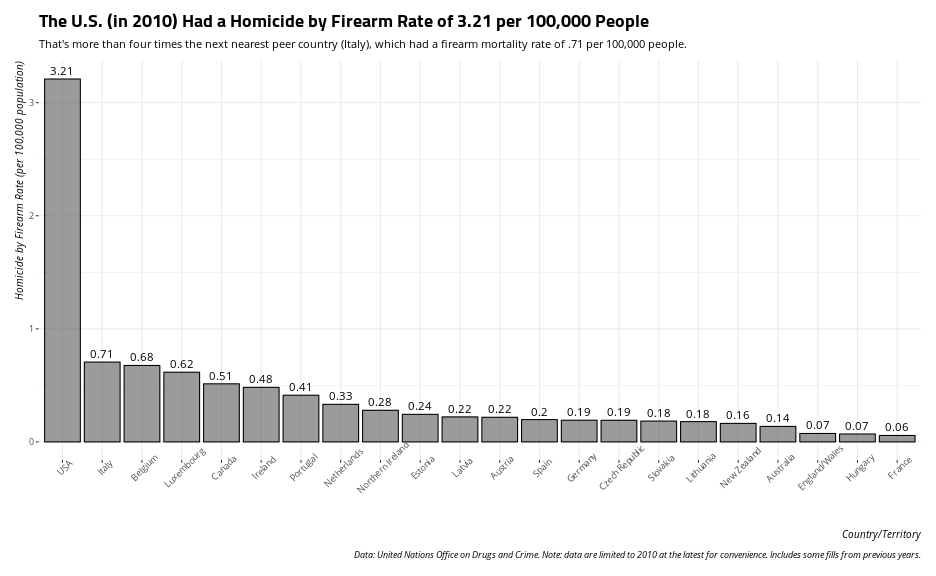
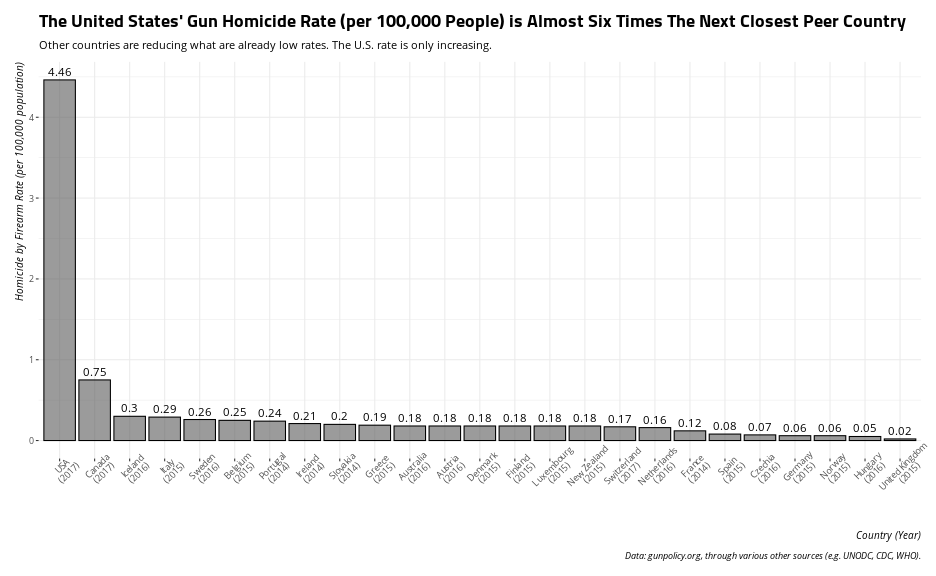
update gun violence/mass shooting post

Changed region(s): [[0.0, 0.0938, 0.9915, 0.8438], [0.031, 0.0, 0.9915, 0.0938], [0.3718, 0.9062, 0.9915, 0.9688]]

diff --git a/_source/2019-08-03-how-bad-is-americas-gun-violence-mass-shooting-problem-in-a-few-lines-of-r-code.md b/_source/2019-08-03-how-bad-is-americas-gun-violence-mass-shooting-problem-in-a-few-lines-of-r-code.md
@@ -19,12 +19,12 @@ categories:
 image: "gilroy-strong.jpg"
 ---
 
-{% include image.html url=“/images/gilroy-strong.jpg” caption=“Artist
-Ignacio ‘Nacho’ Moya carries a sign he made during a vigil for the
+{% include image.html url="/images/gilroy-strong.jpg" caption="Artist
+Ignacio 'Nacho' Moya carries a sign he made during a vigil for the
 victims of the Gilroy Garlic Festival Shooting (Nhat V. Meyer/Bay Area
-News Group)” width=400 align=“right” %}
+News Group)" width=400 align="right" %}
 
-*Last updated: August 03, 2019*
+*Last updated: August 04, 2019*
 
 [Another day, another mass
 shooting](https://www.cnn.com/2019/08/03/us/el-paso-shooting/index.html)
@@ -32,7 +32,7 @@ for literally the only country of its size and development where this
 happens on a routine basis. This one in El Paso may (reportedly) have
 some domestic terrorist overtones to it, but barring confirmation of the
 shooter and the shooter’s motives for the moment, this post will focus
-on just the mass shooting angle here.
+on just the gun violence and the mass shooting angle here.
 
 Gun control emerged as a political and academic hobby horse of mine
 largely because the problem strikes me as a massive and obvious public
@@ -71,56 +71,84 @@ no real (collective) will to do them. 🤷
 
 Anywho, a few lines of R code will emphasize the scope of the problem.
 
-First, United Nations Office on Drugs and Crime data (see:
-[here](https://www.unodc.org/documents/data-and-analysis/statistics/Homicide/Homicides_by_firearms.xls))
-will emphasize how the U.S. stands out among peer countries. I link to
-the spreadsheet in this post. It’s an *ugly* spreadsheet that requires
-some tidying and eye-balling things in LibreOffice for slicing, but it
-can be done all the same. Do note: the data are mostly limited to
-2009/2010 observations, not that it should meaningfully change the
-takeaway here. The U.S. will conspicuously be an island among peer
-countries (i.e. Canada, Australia, New Zealand, and Western/Northern
-Europe) for its homicide by firearm rate.
+First, [GunPolicy.org](https://www.gunpolicy.org) is an excellent
+repository of information about gun deaths, gun laws, and gun
+trafficking for a slew of countries over time. It also has fairly
+comprehensive coverage of estimated gun homicides per 100,000 people
+that leans on country reports from various agencies (e.g. Center for
+Disease Control, United Nations Office on Drugs and Crime, World Health
+Organization) and incorporates information from academic research on gun
+homicides as well when necessary. Since we’re dealing with advanced
+countries, there is high confidence in the estimates even if not all
+years are covered (e.g. the latest year for Germany in the data is
+2015).
+
+<!-- United Nations Office on Drugs and Crime data (see: [here](https://www.unodc.org/documents/data-and-analysis/statistics/Homicide/Homicides_by_firearms.xls)) will emphasize how the U.S. stands out among peer countries. I link to the spreadsheet in this post. It's an *ugly* spreadsheet that requires some tidying and eye-balling things in LibreOffice for slicing, but it can be done all the same. Do note: the data are mostly limited to 2009/2010 observations, not that it should meaningfully change the takeaway here. The U.S. will conspicuously be an island among peer countries (i.e. Canada, Australia, New Zealand, and Western/Northern Europe) for its homicide by firearm rate. -->
+
+I gathered data for 25 peer countries to the U.S. (i.e. Western Europe,
+Northern Europe, Canada, Australia, and New Zealand) in addition to data
+for the U.S. on gun homicides per 100,000 people in the population. I
+created a data frame for it (`ghp100k`) and added it to [my `stevemisc`
+package.](https://github.com/svmiller/stevemisc). You can [read more
+about the data
+here](https://github.com/svmiller/stevemisc/blob/master/man/ghp100k.Rd)
+and, better yet, [check the underlying sources
+here](https://www.gunpolicy.org).
+
+We can first assess the scope of the problem by selecting on the latest
+years for all 25 countres in the data. Here, it’s apparent the U.S. will
+conspicuously be an island among peer countries for its gun homicide
+rate. The U.S. had a gun homicide rate (per 100,000 people) in 2017 of
+an astounding 4.46. The next closest country is Canada, with a rate .75.
+The U.S. rate is almost six times the next closest country in gun
+homicides.
 
 ``` r
-readxl::read_xls("~/Dropbox/data/unodc/Homicides_by_firearms.xls",
-                 skip = 5) %>%
-  select(1:3, Variable, `1995`:`2010`) %>% slice(1:348) %>%
-  rename(Country = `Country/Territory`) %>%
-  fill(Region, Subregion, Country) %>%
-  group_by(Region, Subregion, Country, Variable) %>%
-  gather(year, value, `1995`:`2010`) %>%
-  mutate(ccode = countrycode::countrycode(Country,"country.name","cown")) -> UNODC
+# require(tidyverse)
+# require(stevemisc)
+# data(ghp100k)
 
-UNODC %>% ungroup() %>%
-  filter(ccode %in% c(2, 20, 200, 205, 210, 211, 212, 220, 230,
-                      235, 255, 260, 305, 310, 316, 317, 325,
-                      366, 367, 368, 900, 920)) %>%
-  filter(Variable == "Homicide by firearm rate per 100,000 population") %>%
-  arrange(Country, year) %>% 
-  group_by(Country) %>%
-  # These are advanced countries so most fills are coming from 2009 or so.
-  fill(value) %>% 
-  filter(year >= 2010) %>%
-  # Meh, didn't want to have to do this.
-  ungroup() %>%
-  mutate(Country = ifelse(Country == "United States of America", "USA", Country),
-         Country = ifelse(Country == "United Kingdom (Northern Ireland)", "Northern Ireland", Country),
-         Country = ifelse(Country == "United Kingdom (England and Wales)", "England/Wales", Country),) %>%
-  ggplot(.,aes(reorder(Country, -value), value)) +
+ghp100k %>%
+  arrange(country, year) %>%
+  group_by(country) %>%
+  slice(n()) %>%
+  mutate(cy = paste0(country,"\n(", year, ")")) %>%
+  ggplot(.,aes(reorder(cy, -ghp100k), ghp100k)) +
   theme_steve_web() +
   geom_bar(stat="identity", alpha=0.6, color="black") +
-  geom_text(aes(label=round(value, 2)), vjust=-.5, colour="black",
+  geom_text(aes(label=round(ghp100k, 2)), vjust=-.5, colour="black",
             position=position_dodge(.9), size=4, family="Open Sans") +
   theme(axis.text.x = element_text(angle = 45)) +
-  labs(x = "Country/Territory",
+  labs(x = "Country (Year)",
        y = "Homicide by Firearm Rate (per 100,000 population)",
-       subtitle = "That's more than four times the next nearest peer country (Italy), which had a firearm mortality rate of .71 per 100,000 people.",
-       caption = "Data: United Nations Office on Drugs and Crime. Note: data are limited to 2010 at the latest for convenience. Includes some fills from previous years.",
-       title = "The U.S. (in 2010) Had a Homicide by Firearm Rate of 3.21 per 100,000 People")
+       caption = "Data: gunpolicy.org, through various other sources (e.g. UNODC, CDC, WHO).",
+       title = "The United States' Gun Homicide Rate (per 100,000 People) is Almost Six Times The Next Closest Peer Country",
+       subtitle = "Other countries are reducing what are already low rates. The U.S. rate is only increasing.")
 ```
 
 ![](/images/firearm-homicide-rate-data-usa-peer-countries-1.png)<!-- -->
+
+The data I collected have a time-series component as well to assess
+changes over time. A few things are worth highlighting here. First, the
+U.S. gun homicide rate had been much worse a few decades ago. This we
+knew. Crime rates everywhere in the United States were higher a few
+decades ago than they are now. Still, the gun homicide rate is
+*increasing* in the United States since 2009. By comparison, they’re
+improving in every other country, prominently Italy.
+
+\`\`\`{r firearm-homicide-rate-data-usa-peer-countries-yearly, echo=T,
+eval=T, cache=T ,warning=F, message=F, fig.width=13, fig.height=88
+
+ghp100k %\>% arrange(country, year) %\>% ggplot(.,aes(year, ghp100k)) +
+geom\_line(size=1.1) + theme\_steve\_web() + facet\_wrap(~country) +
+labs(title = “The Gun Homicide Rate for Select Countries, by Year”, x =
+“Year”, y = “Homicide by Firearm Rate (per 100,000 population)”,
+subtitle = “Some countries (Italy, prominently) have done well to
+address gun violence over time. It’s only increased in the U.S. since
+2009.”, caption = “Data: gunpolicy.org, through various other sources
+(e.g. UNODC, CDC, WHO).”)
+
+\`\`\`
 
 Finally, you can start thinking about automating a script to scan [the
 Mother Jones database on mass
@@ -131,29 +159,30 @@ worse the problem is getting.
 
 Because it’s only getting worse.
 
-``` r
+\`\`\`{r us-mass-shootings-by-year-1982-present-mother-jones, echo=T,
+eval=T, cache=T, warning=F, fig.width=13, fig.height=8
+
 library(gsheet)
 
-mass_shootings = gsheet2tbl('https://docs.google.com/spreadsheets/d/1b9o6uDO18sLxBqPwl_Gh9bnhW-ev_dABH83M5Vb5L8o/htmlview?sle=true#gid=0')
+mass\_shootings =
+gsheet2tbl(‘<https://docs.google.com/spreadsheets/d/1b9o6uDO18sLxBqPwl_Gh9bnhW-ev_dABH83M5Vb5L8o/htmlview?sle=true#gid=0>’)
 
-mass_shootings %>%
-  separate(date, c("month","day","year"), sep="/") %>%
-  mutate(date = lubridate::as_date(paste0(year,"-",month,"-", day))) %>%
-  select(case, date, everything()) %>%
-  mutate(year = lubridate::year(date)) %>%
-  group_by(year) %>%
-  summarize(n = n()) %>% 
-  ggplot(.,aes(year, n)) +
-  theme_steve_web() +
-  geom_bar(stat="identity", alpha=0.4, fill="#619cff",color="black") +
-  scale_x_continuous(breaks = seq(1980, 2020, by = 4)) +
-  geom_text(aes(label=n), vjust=-.5, colour="black",
-            position=position_dodge(.9), size=4, family="Open Sans") +
-  labs(y = "Number of Mass Shootings in a Calendar Year",
-       x = "Year",
-       title = paste0("The Number of Mass Shootings by Year, 1982-Present (", format(Sys.time(), '%B %d, %Y'), ")"),
-       subtitle = "There were 31 mass shootings from 1982-1999. There've been 28---29, including El Paso---in the past 2.5 years.",
-       caption = "Data: Mother Jones. Methodology: pretty sure these are shooting incidents in which at least three people died. Earlier classifications of mass shootings counted four or more casualties, if I recall correctly.")
-```
+mass\_shootings %\>% separate(date, c(“month”,“day”,“year”), sep=“/”)
+%\>% mutate(date = lubridate::as\_date(paste0(year,“-”,month,“-”, day)))
+%\>% select(case, date, everything()) %\>% mutate(year =
+lubridate::year(date)) %\>% group\_by(year) %\>% summarize(n = n()) %\>%
+ggplot(.,aes(year, n)) + theme\_steve\_web() +
+geom\_bar(stat=“identity”, alpha=0.4, fill=“\#619cff”,color=“black”)
++ scale\_x\_continuous(breaks = seq(1980, 2020, by = 4)) +
+geom\_text(aes(label=n), vjust=-.5, colour=“black”,
+position=position\_dodge(.9), size=4, family=“Open Sans”) + labs(y =
+“Number of Mass Shootings in a Calendar Year”, x = “Year”, title =
+paste0(“The Number of Mass Shootings by Year, 1982-Present (”,
+format(Sys.time(), ‘%B %d, %Y’), “)”), subtitle = “There were 31 mass
+shootings from 1982-1999. There’ve been 28—29, including El Paso—in the
+past 2.5 years.”, caption = “Data: Mother Jones. Methodology: pretty
+sure these are shooting incidents in which at least three people died.
+Earlier classifications of mass shootings counted four or more
+casualties, if I recall correctly.”)
 
-![](/images/us-mass-shootings-by-year-1982-present-mother-jones-1.png)<!-- -->
+\`\`\`

diff --git a/_posts/2019-08-03-how-bad-is-americas-gun-violence-mass-shooting-problem-in-a-few-lines-of-r-code.md b/_posts/2019-08-03-how-bad-is-americas-gun-violence-mass-shooting-problem-in-a-few-lines-of-r-code.md
@@ -25,7 +25,7 @@ image: "gilroy-strong.jpg"
 
 {% include image.html url="/images/gilroy-strong.jpg" caption="Artist Ignacio 'Nacho' Moya carries a sign he made during a vigil for the victims of the Gilroy Garlic Festival Shooting (Nhat V. Meyer/Bay Area News Group)" width=400 align="right" %}
 
-*Last updated: August 03, 2019*
+*Last updated: August 04, 2019*
 
 [Another day, another mass shooting](https://www.cnn.com/2019/08/03/us/el-paso-shooting/index.html) for literally the only country of its size and development where this happens on a routine basis. This one in El Paso may (reportedly) have some domestic terrorist overtones to it, but barring confirmation of the shooter and the shooter's motives for the moment, this post will focus on just the gun violence and the mass shooting angle here.
 
@@ -37,49 +37,61 @@ Alas, here we are: massive public health problem---*needless* public health prob
 
 Anywho, a few lines of R code will emphasize the scope of the problem.
 
-First, United Nations Office on Drugs and Crime data (see: [here](https://www.unodc.org/documents/data-and-analysis/statistics/Homicide/Homicides_by_firearms.xls)) will emphasize how the U.S. stands out among peer countries. I link to the spreadsheet in this post. It's an *ugly* spreadsheet that requires some tidying and eye-balling things in LibreOffice for slicing, but it can be done all the same. Do note: the data are mostly limited to 2009/2010 observations, not that it should meaningfully change the takeaway here. The U.S. will conspicuously be an island among peer countries (i.e. Canada, Australia, New Zealand, and Western/Northern Europe) for its homicide by firearm rate.
+First, [GunPolicy.org](https://www.gunpolicy.org) is an excellent repository of information about gun deaths, gun laws, and gun trafficking for a slew of countries over time. It also has fairly comprehensive coverage of estimated gun homicides per 100,000 people that leans on country reports from various agencies (e.g. Center for Disease Control, United Nations Office on Drugs and Crime, World Health Organization) and incorporates information from academic research on gun homicides as well when necessary. Since we're dealing with advanced countries, there is high confidence in the estimates even if not all years are covered (e.g. the latest year for Germany in the data is 2015).
+
+
+
+
+<!-- United Nations Office on Drugs and Crime data (see: [here](https://www.unodc.org/documents/data-and-analysis/statistics/Homicide/Homicides_by_firearms.xls)) will emphasize how the U.S. stands out among peer countries. I link to the spreadsheet in this post. It's an *ugly* spreadsheet that requires some tidying and eye-balling things in LibreOffice for slicing, but it can be done all the same. Do note: the data are mostly limited to 2009/2010 observations, not that it should meaningfully change the takeaway here. The U.S. will conspicuously be an island among peer countries (i.e. Canada, Australia, New Zealand, and Western/Northern Europe) for its homicide by firearm rate. -->
+
+I gathered data for 25 peer countries to the U.S. (i.e. Western Europe, Northern Europe, Canada, Australia, and New Zealand) in addition to data for the U.S. on gun homicides per 100,000 people in the population. I created a data frame for it (`ghp100k`) and added it to [my `stevemisc` package.](https://github.com/svmiller/stevemisc). You can [read more about the data here](https://github.com/svmiller/stevemisc/blob/master/man/ghp100k.Rd) and, better yet, [check the underlying sources here](https://www.gunpolicy.org).
+
+We can first assess the scope of the problem by selecting on the latest years for all 25 countres in the data. Here, it's apparent the U.S. will conspicuously be an island among peer countries for its gun homicide rate. The U.S. had a gun homicide rate (per 100,000 people) in 2017 of an astounding 4.46. The next closest country is Canada, with a rate .75. The U.S. rate is almost six times the next closest country in gun homicides.
 
 
 
 ```r
-readxl::read_xls("~/Dropbox/data/unodc/Homicides_by_firearms.xls",
-                 skip = 5) %>%
-  select(1:3, Variable, `1995`:`2010`) %>% slice(1:348) %>%
-  rename(Country = `Country/Territory`) %>%
-  fill(Region, Subregion, Country) %>%
-  group_by(Region, Subregion, Country, Variable) %>%
-  gather(year, value, `1995`:`2010`) %>%
-  mutate(ccode = countrycode::countrycode(Country,"country.name","cown")) -> UNODC
+# require(tidyverse)
+# require(stevemisc)
+# data(ghp100k)
 
-UNODC %>% ungroup() %>%
-  filter(ccode %in% c(2, 20, 200, 205, 210, 211, 212, 220, 230,
-                      235, 255, 260, 305, 310, 316, 317, 325,
-                      366, 367, 368, 900, 920)) %>%
-  filter(Variable == "Homicide by firearm rate per 100,000 population") %>%
-  arrange(Country, year) %>% 
-  group_by(Country) %>%
-  # These are advanced countries so most fills are coming from 2009 or so.
-  fill(value) %>% 
-  filter(year >= 2010) %>%
-  # Meh, didn't want to have to do this.
-  ungroup() %>%
-  mutate(Country = ifelse(Country == "United States of America", "USA", Country),
-         Country = ifelse(Country == "United Kingdom (Northern Ireland)", "Northern Ireland", Country),
-         Country = ifelse(Country == "United Kingdom (England and Wales)", "England/Wales", Country)) %>%
-  ggplot(.,aes(reorder(Country, -value), value)) +
+ghp100k %>%
+  arrange(country, year) %>%
+  group_by(country) %>%
+  slice(n()) %>%
+  mutate(cy = paste0(country,"\n(", year, ")")) %>%
+  ggplot(.,aes(reorder(cy, -ghp100k), ghp100k)) +
   theme_steve_web() +
   geom_bar(stat="identity", alpha=0.6, color="black") +
-  geom_text(aes(label=round(value, 2)), vjust=-.5, colour="black",
+  geom_text(aes(label=round(ghp100k, 2)), vjust=-.5, colour="black",
             position=position_dodge(.9), size=4, family="Open Sans") +
   theme(axis.text.x = element_text(angle = 45)) +
-  labs(x = "Country/Territory",
+  labs(x = "Country (Year)",
        y = "Homicide by Firearm Rate (per 100,000 population)",
-      title = "The U.S. (in 2010) Had a Homicide by Firearm Rate of 3.21 per 100,000 People",
-       subtitle = "That's more than four times the next nearest peer country (Italy), which had a firearm mortality rate of .71 per 100,000 people.",
-       caption = "Data: United Nations Office on Drugs and Crime. Note: data are limited to 2010 at the latest for convenience. Includes some fills from previous years.") 
+       caption = "Data: gunpolicy.org, through various other sources (e.g. UNODC, CDC, WHO).",
+       title = "The United States' Gun Homicide Rate (per 100,000 People) is Almost Six Times The Next Closest Peer Country",
+       subtitle = "Other countries are reducing what are already low rates. The U.S. rate is only increasing.")
 ```
 
 ![plot of chunk firearm-homicide-rate-data-usa-peer-countries](/images/firearm-homicide-rate-data-usa-peer-countries-1.png)
+
+The data I collected have a time-series component as well to assess changes over time. A few things are worth highlighting here. First, the U.S. gun homicide rate had been much worse a few decades ago. This we knew. Crime rates everywhere in the United States were higher a few decades ago than they are now. Still, the gun homicide rate is *increasing* in the United States since 2009. By comparison, they're improving in every other country, prominently Italy.
+
+
+```r
+ghp100k %>%
+  arrange(country, year) %>%
+  ggplot(.,aes(year, ghp100k)) + geom_line(size=1.1) +
+  theme_steve_web() +
+  facet_wrap(~country) +
+  labs(title = "The Gun Homicide Rate for Select Countries, by Year",
+       x = "Year",
+       y = "Homicide by Firearm Rate (per 100,000 population)",
+       subtitle = "Some countries (Italy, prominently) have done well to address gun violence over time. It's only increased in the U.S. since 2009.",
+       caption = "Data: gunpolicy.org, through various other sources (e.g. UNODC, CDC, WHO).")
+```
+
+![plot of chunk firearm-homicide-rate-data-usa-peer-countries-yearly-faceted](/images/firearm-homicide-rate-data-usa-peer-countries-yearly-faceted-1.png)
 
 Finally, you can start thinking about automating a script to scan [the Mother Jones database on mass shootings](https://www.motherjones.com/politics/2012/12/mass-shootings-mother-jones-full-data/) to note how this problem is only getting worse. In subsequent updates, I might try to fully automate this with built-in assessments of how much worse the problem is getting.
 
